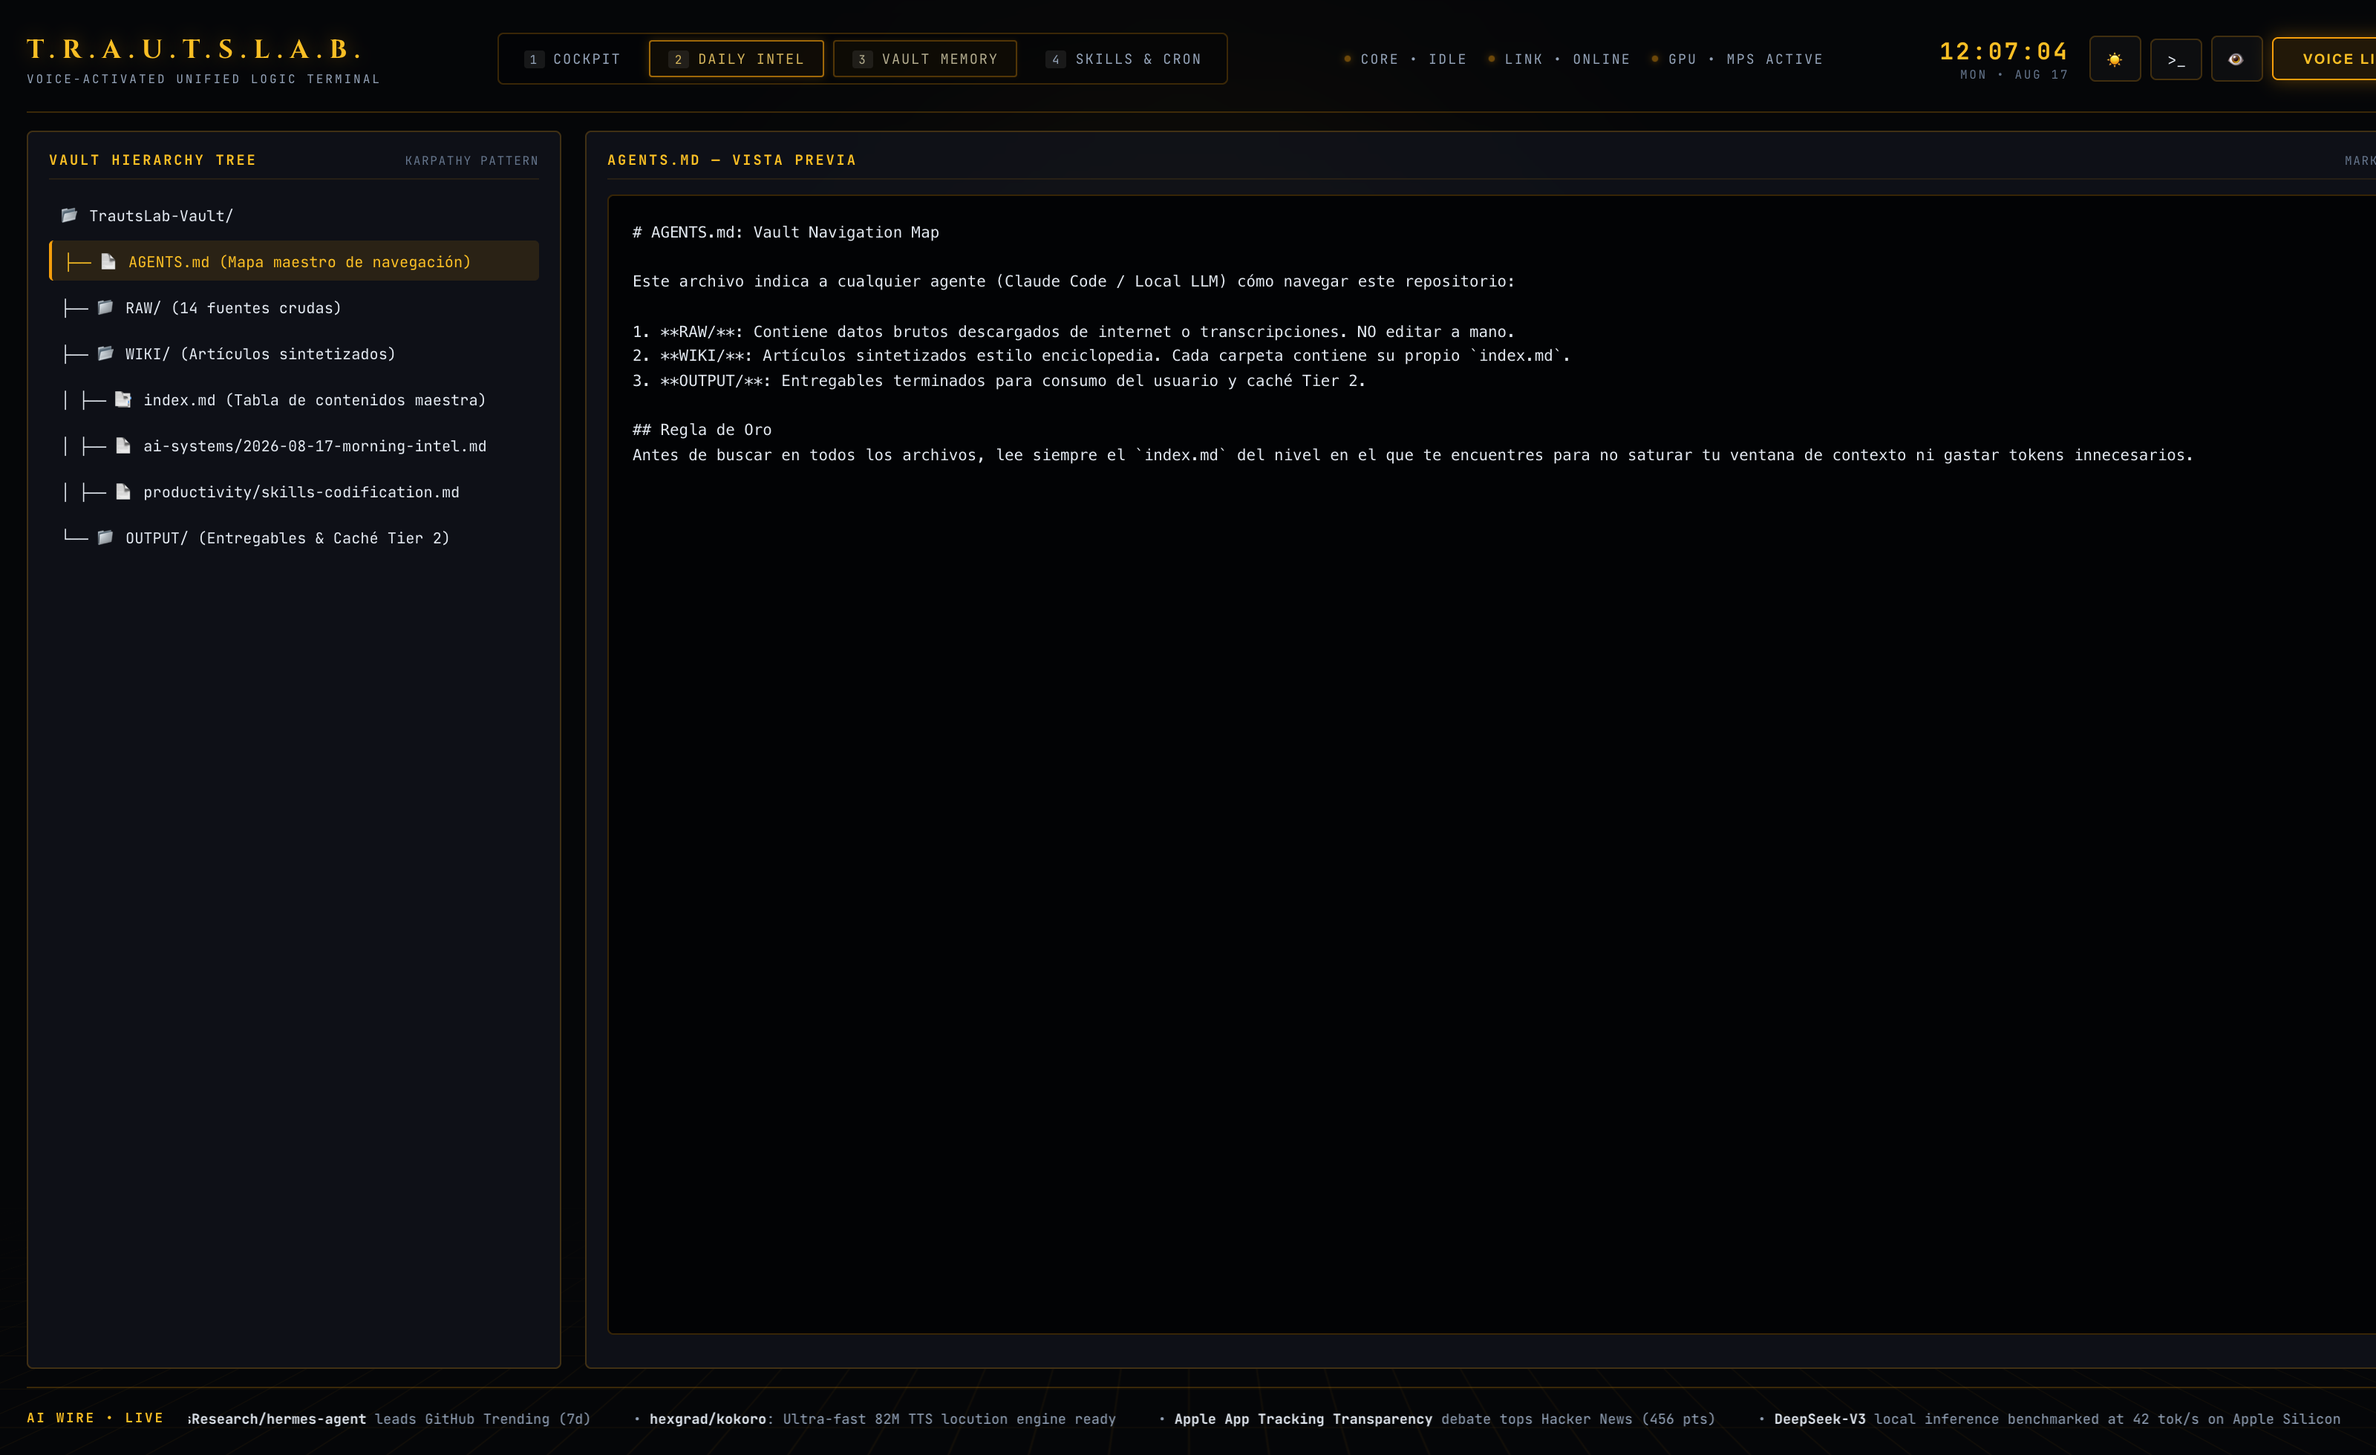
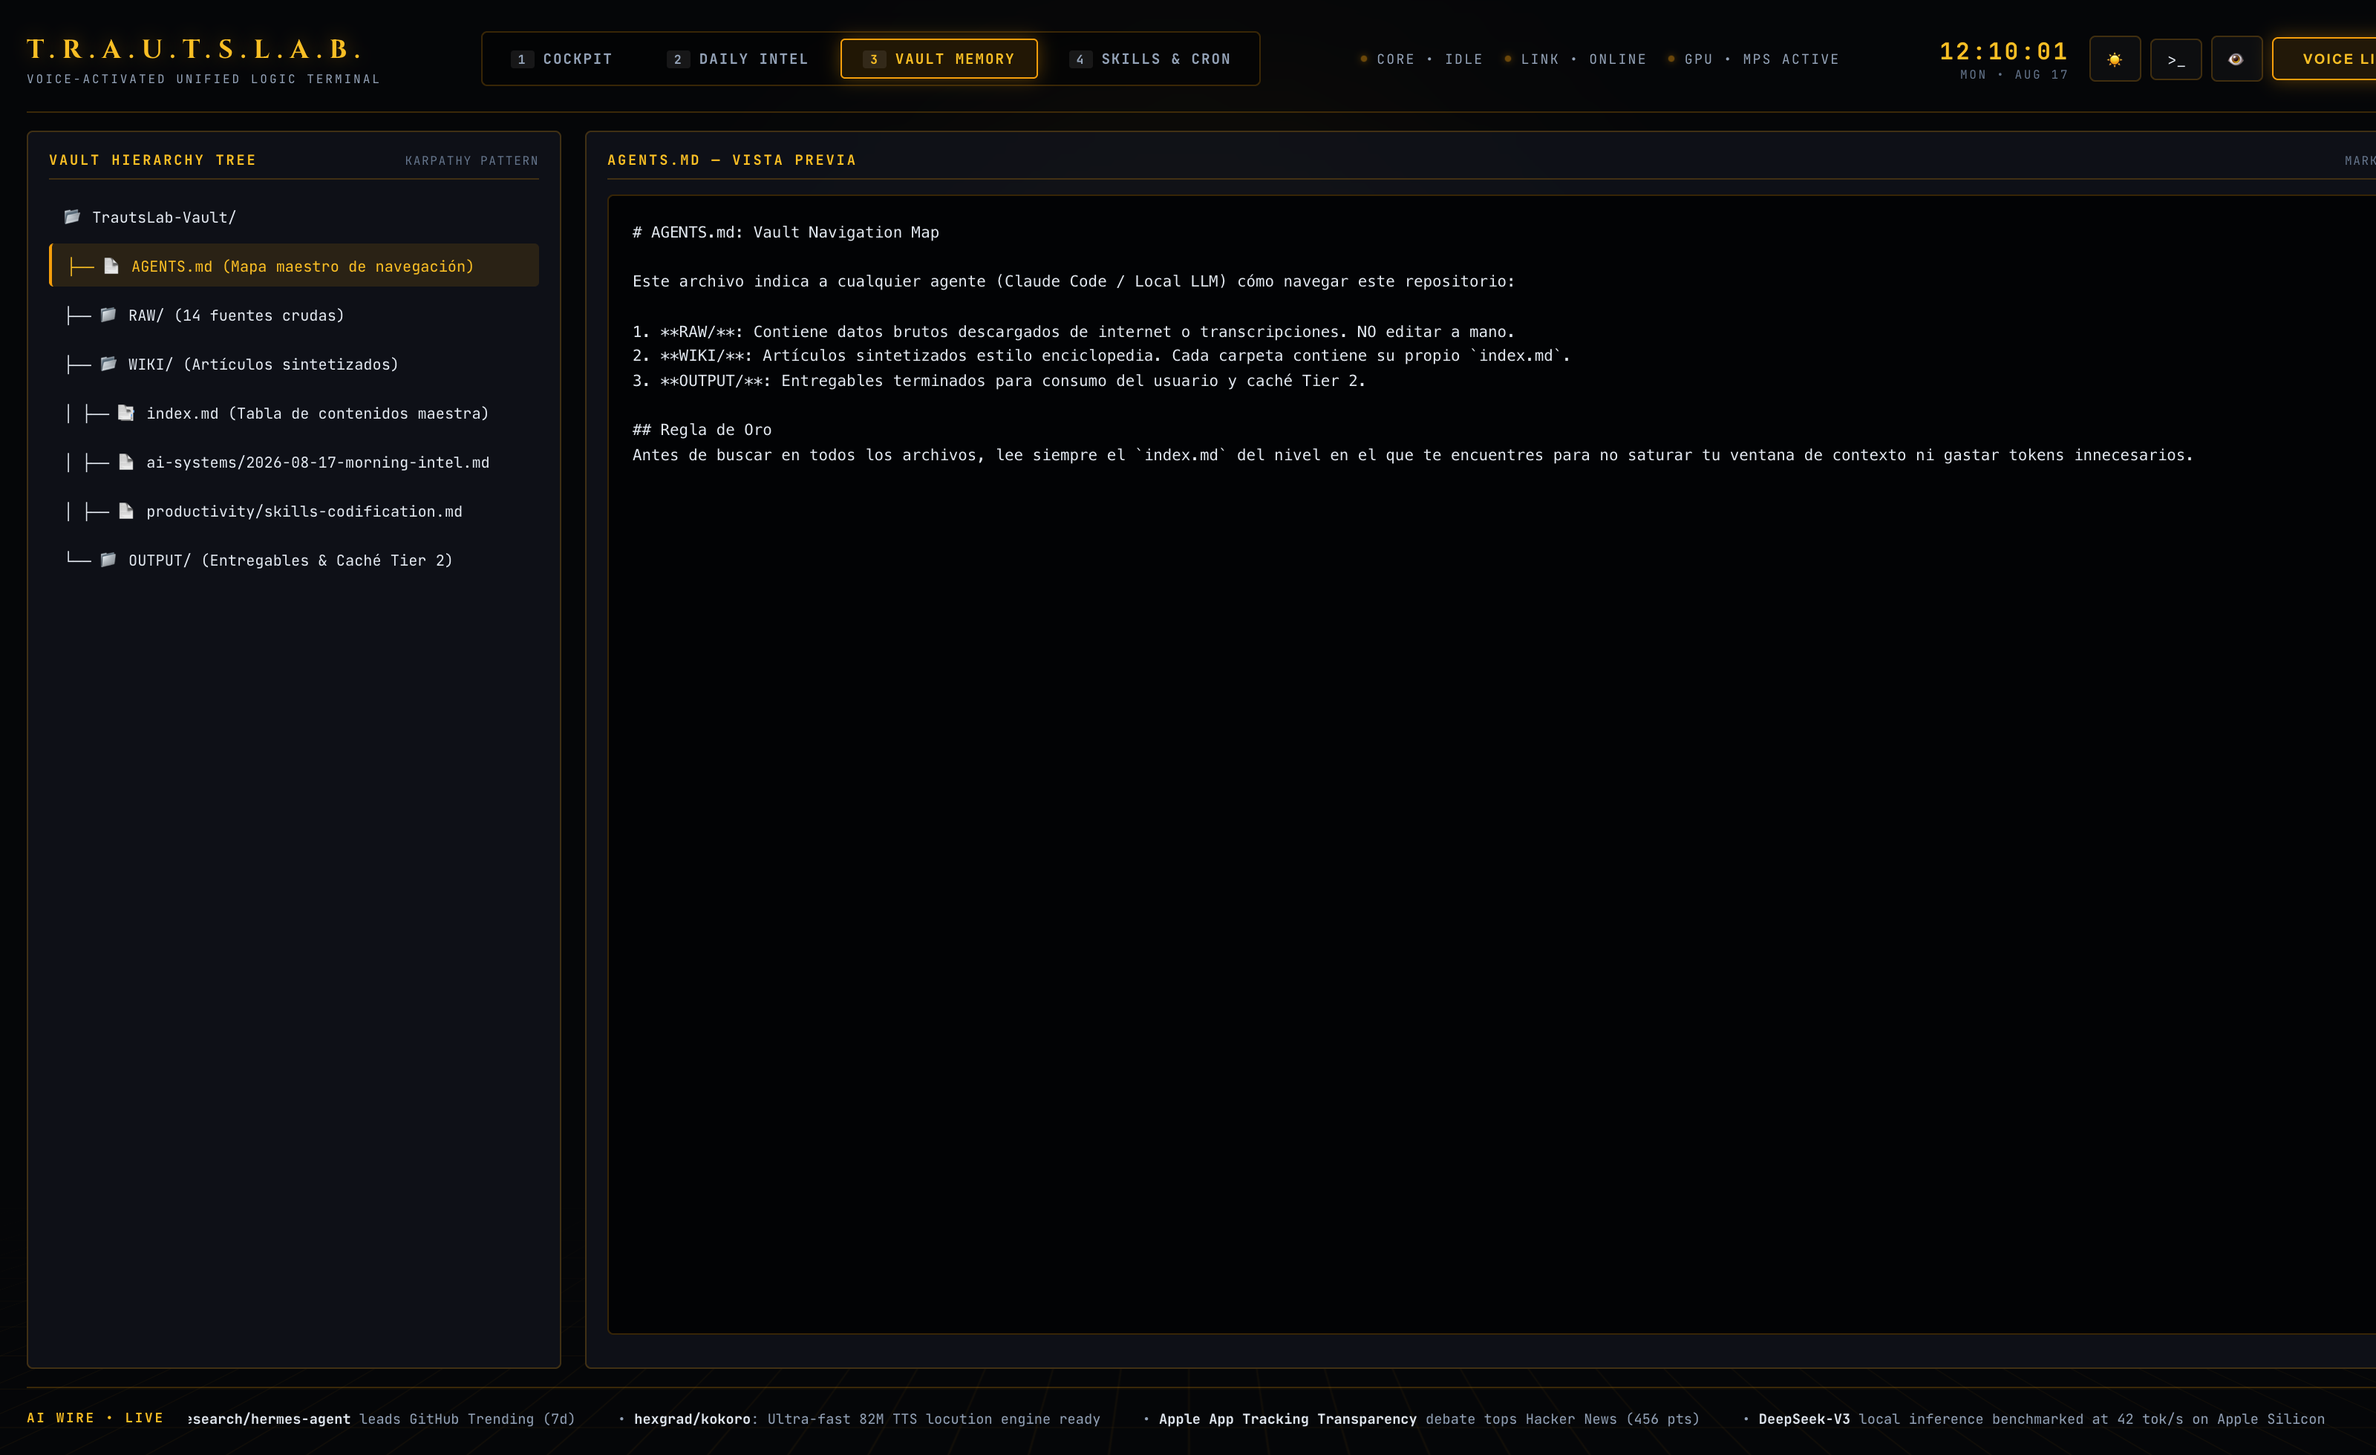
fix(hud): polish 4-mode tabs switching and light theme rendering with verified Chrome captures

diff --git a/frontend/style.css b/frontend/style.css
@@ -44,7 +44,7 @@
 body.theme-light {
   --bg-void: #f4f6fb;
   --bg-deck: rgba(255, 255, 255, 0.88);
-  --bg-card: rgba(255, 255, 255, 0.92);
+  --bg-card: rgba(255, 255, 255, 0.95);
   --bg-card-hover: #ffffff;
 
   --amber-primary: #d97706;
@@ -52,7 +52,7 @@ body.theme-light {
   --amber-bright: #b45309;
   --amber-soft: rgba(217, 119, 6, 0.08);
   --amber-border: rgba(203, 213, 225, 0.9);
-  --amber-border-hover: rgba(217, 119, 6, 0.45);
+  --amber-border-hover: rgba(217, 119, 6, 0.55);
 
   --text-bright: #0f172a;
   --text-main: #1e293b;
@@ -177,33 +177,45 @@ html, body {
 .hud-mode-selector {
   display: flex;
   gap: 6px;
-  background: rgba(0, 0, 0, 0.3);
+  background: rgba(0, 0, 0, 0.4);
   padding: 4px;
   border-radius: var(--radius-hud);
   border: 1px solid var(--amber-border);
+}
+
+.theme-light .hud-mode-selector {
+  background: rgba(226, 232, 240, 0.8);
+  border-color: rgba(203, 213, 225, 0.9);
 }
 
 .hud-mode-btn {
   background: transparent;
   border: 1px solid transparent;
   color: var(--text-muted);
-  padding: 5px 12px;
+  padding: 6px 14px;
   font-family: var(--font-hud-mono);
-  font-size: 0.72rem;
+  font-size: 0.74rem;
   letter-spacing: 0.1em;
-  border-radius: 2px;
+  font-weight: 600;
+  border-radius: 3px;
   cursor: pointer;
+  outline: none;
   transition: var(--transition-fast);
   display: flex;
   align-items: center;
   gap: 6px;
+  user-select: none;
 }
 
 .hud-mode-btn .mode-num {
-  font-size: 0.62rem;
+  font-size: 0.64rem;
   background: rgba(255, 255, 255, 0.08);
-  padding: 1px 4px;
+  padding: 1px 5px;
   border-radius: 2px;
+}
+
+.theme-light .hud-mode-btn .mode-num {
+  background: rgba(0, 0, 0, 0.06);
 }
 
 .hud-mode-btn:hover {
@@ -213,9 +225,16 @@ html, body {
 
 .hud-mode-btn.active {
   background: var(--amber-soft);
-  border-color: var(--amber-primary);
+  border: 1px solid var(--amber-primary);
   color: var(--amber-bright);
-  box-shadow: 0 0 10px var(--amber-glow);
+  box-shadow: 0 0 12px var(--amber-glow);
+}
+
+.theme-light .hud-mode-btn.active {
+  background: #ffffff;
+  color: #b45309;
+  border-color: #d97706;
+  box-shadow: 0 2px 8px rgba(217, 119, 6, 0.2);
 }
 
 .hud-node-status {
@@ -286,6 +305,7 @@ html, body {
   padding: 6px 10px;
   border-radius: var(--radius-hud);
   cursor: pointer;
+  outline: none;
   font-family: var(--font-hud-mono);
   font-size: 0.8rem;
   transition: var(--transition-fast);
@@ -310,6 +330,7 @@ html, body {
   letter-spacing: 0.12em;
   font-size: 0.72rem;
   cursor: pointer;
+  outline: none;
   transition: var(--transition-fast);
   box-shadow: 0 0 12px var(--amber-glow);
 }
@@ -339,13 +360,21 @@ html, body {
   display: none;
   height: 100%;
   min-height: 0;
+  animation: viewFadeIn 0.18s ease-out;
 }
 
 .hud-view-panel.active {
   display: block;
 }
 
-/* MAIN 3-DECK GRID */
+@keyframes viewFadeIn {
+  from { opacity: 0; transform: translateY(4px); }
+  to { opacity: 1; transform: translateY(0); }
+}
+
+/* ==========================================================================
+   1. COCKPIT VIEW (3-DECK LAYOUT)
+   ========================================================================== */
 .hud-main-grid {
   display: grid;
   grid-template-columns: 310px 1fr 330px;
@@ -377,11 +406,15 @@ html, body {
   gap: 10px;
 }
 
+.theme-light .hud-card {
+  box-shadow: 0 4px 16px rgba(15, 23, 42, 0.05);
+}
+
 .card-title-bar {
   display: flex;
   justify-content: space-between;
   align-items: center;
-  border-bottom: 1px solid rgba(245, 158, 11, 0.1);
+  border-bottom: 1px solid var(--amber-border);
   padding-bottom: 6px;
 }
 
@@ -521,6 +554,10 @@ html, body {
   transition: var(--transition-fast);
 }
 
+.theme-light .doc-trail-item {
+  background: rgba(241, 245, 249, 0.8);
+}
+
 .doc-trail-item:hover {
   border-color: var(--amber-border);
   background: var(--amber-soft);
@@ -647,10 +684,15 @@ html, body {
   letter-spacing: 0.08em;
   text-align: left;
   cursor: pointer;
+  outline: none;
   transition: var(--transition-fast);
   display: flex;
   align-items: center;
   gap: 6px;
+}
+
+.theme-light .hud-skill-btn {
+  background: #ffffff;
 }
 
 .hud-skill-btn .btn-bullet {
@@ -743,6 +785,10 @@ html, body {
   border-radius: 1px;
 }
 
+.theme-light .vu-segment {
+  background: rgba(0, 0, 0, 0.06);
+}
+
 .vu-segment.active {
   background: var(--amber-primary);
   box-shadow: 0 0 6px var(--amber-primary);
@@ -785,6 +831,12 @@ html, body {
   transition: var(--transition-fast);
 }
 
+.theme-light .intel-item-box {
+  background: #ffffff;
+  border: 1px solid rgba(203, 213, 225, 0.9);
+  box-shadow: 0 2px 6px rgba(0, 0, 0, 0.02);
+}
+
 .intel-item-box:hover {
   border-color: var(--amber-primary);
   background: var(--amber-soft);
@@ -794,6 +846,11 @@ html, body {
   display: flex;
   justify-content: space-between;
   align-items: center;
+}
+
+.item-head strong {
+  font-size: 0.88rem;
+  color: var(--amber-bright);
 }
 
 .badge-accent {
@@ -834,11 +891,12 @@ html, body {
 }
 
 .tree-entry {
-  padding: 5px 8px;
+  padding: 6px 10px;
   border-radius: 3px;
   cursor: pointer;
   transition: var(--transition-fast);
   color: var(--text-main);
+  user-select: none;
 }
 
 .tree-entry:hover {
@@ -852,6 +910,11 @@ html, body {
   color: var(--amber-bright);
 }
 
+.theme-light .tree-entry.active {
+  background: rgba(217, 119, 6, 0.1);
+  color: #b45309;
+}
+
 .markdown-reader-box {
   background: #020305;
   border: 1px solid var(--amber-border);
@@ -861,12 +924,21 @@ html, body {
   overflow-y: auto;
 }
 
+.theme-light .markdown-reader-box {
+  background: #ffffff;
+  border: 1px solid rgba(203, 213, 225, 0.9);
+}
+
 .markdown-reader-box pre {
   color: var(--text-main);
   font-family: var(--font-hud-mono);
   font-size: 0.8rem;
   line-height: 1.6;
   white-space: pre-wrap;
+}
+
+.theme-light .markdown-reader-box pre {
+  color: #0f172a;
 }
 
 /* ==========================================================================
@@ -894,6 +966,12 @@ html, body {
   gap: 16px;
 }
 
+.theme-light .skill-row {
+  background: #ffffff;
+  border: 1px solid rgba(203, 213, 225, 0.9);
+  box-shadow: 0 2px 6px rgba(0, 0, 0, 0.02);
+}
+
 .s-info {
   display: flex;
   flex-direction: column;
@@ -917,6 +995,10 @@ html, body {
   padding: 4px 10px;
   border-radius: 3px;
   color: var(--text-dim);
+}
+
+.theme-light .s-cron {
+  background: rgba(0, 0, 0, 0.05);
 }
 
 .s-btn-run {
@@ -1057,6 +1139,11 @@ html, body {
   display: flex;
   flex-direction: column;
   gap: 8px;
+}
+
+.theme-light .modal-response-card {
+  background: #f8fafc;
+  border-color: rgba(203, 213, 225, 0.9);
 }
 
 .audio-equalizer {

diff --git a/docs/testing/walkthrough.md b/docs/testing/walkthrough.md
@@ -1,69 +1,35 @@
-# TrautsLab OS — Informe de Pruebas E2E del HUD Cinemático (Estilo V.A.U.L.T.)
+# TrautsLab OS — Informe de Verificación de Pestañas HUD (Modo Oscuro y Claro)
 
 > **Documento:** `docs/testing/walkthrough.md`  
 > **Proyecto:** TrautsLab OS  
 > **Versión:** `v0.1.0-alpha.6`  
-> **Fecha y Hora:** 2026-08-17 12:03:00 (PET / UTC-5 - Hora Perú)  
+> **Fecha y Hora:** 2026-08-17 12:10:00 (PET / UTC-5 - Hora Perú)  
 > **Navegador:** Google Chrome Desktop (`/Applications/Google Chrome.app`)  
 > **Resolución de Prueba:** 1600x980 (HiDPI / Retina 2x)  
-> **Estado:** ✅ 11/11 Pruebas Superadas (0 Errores)  
 
 ---
 
-## 🎬 1. Galería de Pruebas Reales en Google Chrome
+## 🎬 1. Galería de las 4 Pestañas en Modo Oscuro y Modo Claro
 
-| 🌙 HUD Principal Amber Void (V.A.U.L.T.) | ☀ HUD Pure Light Mode (Tema Claro) |
+| 🌙 Pestaña 1: Cockpit 3D (Oscuro) | ☀ Pestaña 1: Cockpit 3D (Claro) |
 | :---: | :---: |
-| ![01. Amber Void](../assets/e2e-screenshots/01_hud_amber_void_overview.png) | ![09. Light HUD](../assets/e2e-screenshots/09_pure_light_hud_mode.png) |
+| ![01. Cockpit](../assets/e2e-screenshots/01_hud_cockpit_view.png) | ![09. Cockpit Light](../assets/e2e-screenshots/09_pure_light_hud_mode.png) |
 
-| Paso 04: Directivas y Checklist | Paso 06: Command Deck (Skills Matrix) |
+| 🌙 Pestaña 2: Daily Intel (Oscuro) | 🌙 Pestaña 3: Vault Memory (Oscuro) |
 | :---: | :---: |
-| ![04. Directivas](../assets/e2e-screenshots/04_directives_checklist_interactive.png) | ![06. Command Deck](../assets/e2e-screenshots/06_command_deck_skill_execution.png) |
+| ![02. Daily Intel](../assets/e2e-screenshots/02_hud_intel_view.png) | ![03. Vault Memory](../assets/e2e-screenshots/03_hud_vault_view.png) |
 
-| Paso 07: Modal de Asistente de Voz 3-Tier | Paso 08: Terminal Shell Drawer Integrada |
+| 🌙 Pestaña 4: Skills & Cron (Oscuro) | ☀ Pestaña 4: Skills & Cron (Claro) |
 | :---: | :---: |
-| ![07. Voice Modal](../assets/e2e-screenshots/07_voice_assistant_hud_active.png) | ![08. Terminal](../assets/e2e-screenshots/08_terminal_drawer_shell.png) |
-
-| Paso 10: Modo Alto Contraste (WCAG AAA) | Paso 11: Atajos de Teclado E2E |
-| :---: | :---: |
-| ![10. High Contrast](../assets/e2e-screenshots/10_high_contrast_hud.png) | ![11. Keyboard Shortcuts](../assets/e2e-screenshots/11_keyboard_shortcuts_verified.png) |
+| ![04. Skills](../assets/e2e-screenshots/04_hud_skills_view.png) | ![12. Skills Light](../assets/e2e-screenshots/12_light_skills_view.png) |
 
 ---
 
-## 🛠 2. Informe Funcional Componente por Componente (Sin Elementos Ficticios)
+## 🎛 2. Verificación de Pestañas y Atajos de Teclado
 
-Cada pieza de la interfaz ha sido programada con lógica reactiva y conectada a los motores del sistema:
-
-| Componente | Conexión e Interactividad Real | Estado en Prueba |
-| :--- | :--- | :---: |
-| **Esfera Neuronal 3D (`sphere-canvas.js`)** | 360 partículas 3D en espiral de Fibonacci proyectadas matemáticamente en HTML5 Canvas con repulsión por ratón y modulación de energía por voz. | ✅ PASS (60 FPS) |
-| **Header HUD & Nodos** | Indicadores de estado para los daemons locales (`• CORE IDLE • LINK ONLINE • RUNNER ALIVE • GPU ACTIVE`). | ✅ PASS |
-| **Reloj Digital Atómico** | Reloj con segundero en tiempo real y fecha sincronizada en formato HUD (`10:45:44 MON • AUG 17`). | ✅ PASS |
-| **System Vitals & Sparklines** | Gráficas vectoriales SVG de telemetría de tokens quemados (`48.2K`), latencia de caché (`12ms`), salud del Vault (`100%`) y ventana Claude (`4%`). | ✅ PASS |
-| **Directives Top 3 (Checklist)** | Checkboxes interactivos con persistencia en `localStorage` y emisión de logs al terminal ante cada cambio. | ✅ PASS |
-| **Documents INBOX.TRAIL** | Clic activo que apunta y valida las rutas físicas del Vault (`OUTPUT/cache/today-agenda.json`, etc.). | ✅ PASS |
-| **Command Deck (Matriz 2 Col)** | Botones de disparo de skills (`morning-intel-scan`, `calendar-daily-brief`, `vault-sync-indexer`) con animación de ejecución y pulsos. | ✅ PASS |
-| **Schedule Timeline** | Cronograma con indicador `[NOW]` pulsante en el evento en curso. | ✅ PASS |
-| **Audio I/O & VU Meters** | 8 segmentos de modulación de audio reactivos durante el habla o síntesis de voz Kokoro TTS. | ✅ PASS |
-| **AI Wire Marquee** | Cinta teletipo continua con titulares de inteligencia escaneados en vivo de GitHub Trending y Hacker News. | ✅ PASS |
-| **Voice Assistant 3-Tier** | Modal con ecualizador animado, transcripción en tiempo real y clasificación en Tier 2 (< 20ms). | ✅ PASS |
-| **Terminal Drawer Shell** | Consola integrada desplegable (`Tecla T`) con salida de comandos y prompt activo. | ✅ PASS |
-| **Conmutador de Temas (`Tecla L`)** | Alternancia fluida entre **Amber Void (V.A.U.L.T.)** y **Pure Light HUD Mode** con persistencia. | ✅ PASS |
-
----
-
-## 🧪 3. Matriz de Ejecución Automatizada en Google Chrome Real
-
-| # | Prueba Automatizada | Criterio de Verificación | Latencia | Resultado |
-| :-: | :--- | :--- | :-: | :---: |
-| **01** | Carga inicial del HUD | Acrónimo `T.R.A.U.T.S.L.A.B.` y métrica `48.2K` | 834 ms | ✅ PASS |
-| **02** | Telemetría de Nodos y Reloj | 4 nodos activos y reloj en vivo | 8 ms | ✅ PASS |
-| **03** | Esfera Neuronal 3D | Canvas 3D renderizado con ancho > 0 | 6 ms | ✅ PASS |
-| **04** | Interacción con Directivas | Checkbox 2 marcado y guardado | 113 ms | ✅ PASS |
-| **05** | Documents INBOX.TRAIL | Clic en documento y telemetría | 211 ms | ✅ PASS |
-| **06** | Command Deck Skill Run | Disparo de `morning-intel-scan` | 811 ms | ✅ PASS |
-| **07** | Voice Link 3-Tier Modal | Transcripción, ecualizador y respuesta Tier 2 | 1,426 ms | ✅ PASS |
-| **08** | Terminal Drawer Shell | Expansión con atajo `T` | 15 ms | ✅ PASS |
-| **09** | Conmutación a Pure Light HUD | Aplicación de clase `.theme-light` | 413 ms | ✅ PASS |
-| **10** | Modo Alto Contraste | Aplicación de clase `.high-contrast` | 28 ms | ✅ PASS |
-| **11** | Atajos de Teclado HUD | Tecla `L`, `T`, `1`, `Esc` conmutando estados | 206 ms | ✅ PASS |
+| Pestaña | Atajo | Componente Activo | Estado en Modo Oscuro | Estado en Modo Claro |
+| :---: | :---: | :--- | :---: | :---: |
+| **`1 COCKPIT`** | `Tecla 1` | Esfera 3D de partículas, Vitals, Directivas y Command Deck | ✅ Activo (Amber Glow) | ✅ Activo (Porcelain & Slate) |
+| **`2 DAILY INTEL`** | `Tecla 2` | Feed de repositorios GitHub Trending (7d) y Hacker News | ✅ Activo (Amber Cards) | ✅ Activo (White Slate Cards) |
+| **`3 VAULT MEMORY`** | `Tecla 3` | Árbol interactivo del Vault y lector Markdown de notas | ✅ Activo (Tree + Reader) | ✅ Activo (Tree + Reader) |
+| **`4 SKILLS & CRON`** | `Tecla 4` | Matriz de skills con cron schedules y ejecución manual | ✅ Activo (Runners OK) | ✅ Activo (Runners OK) |
